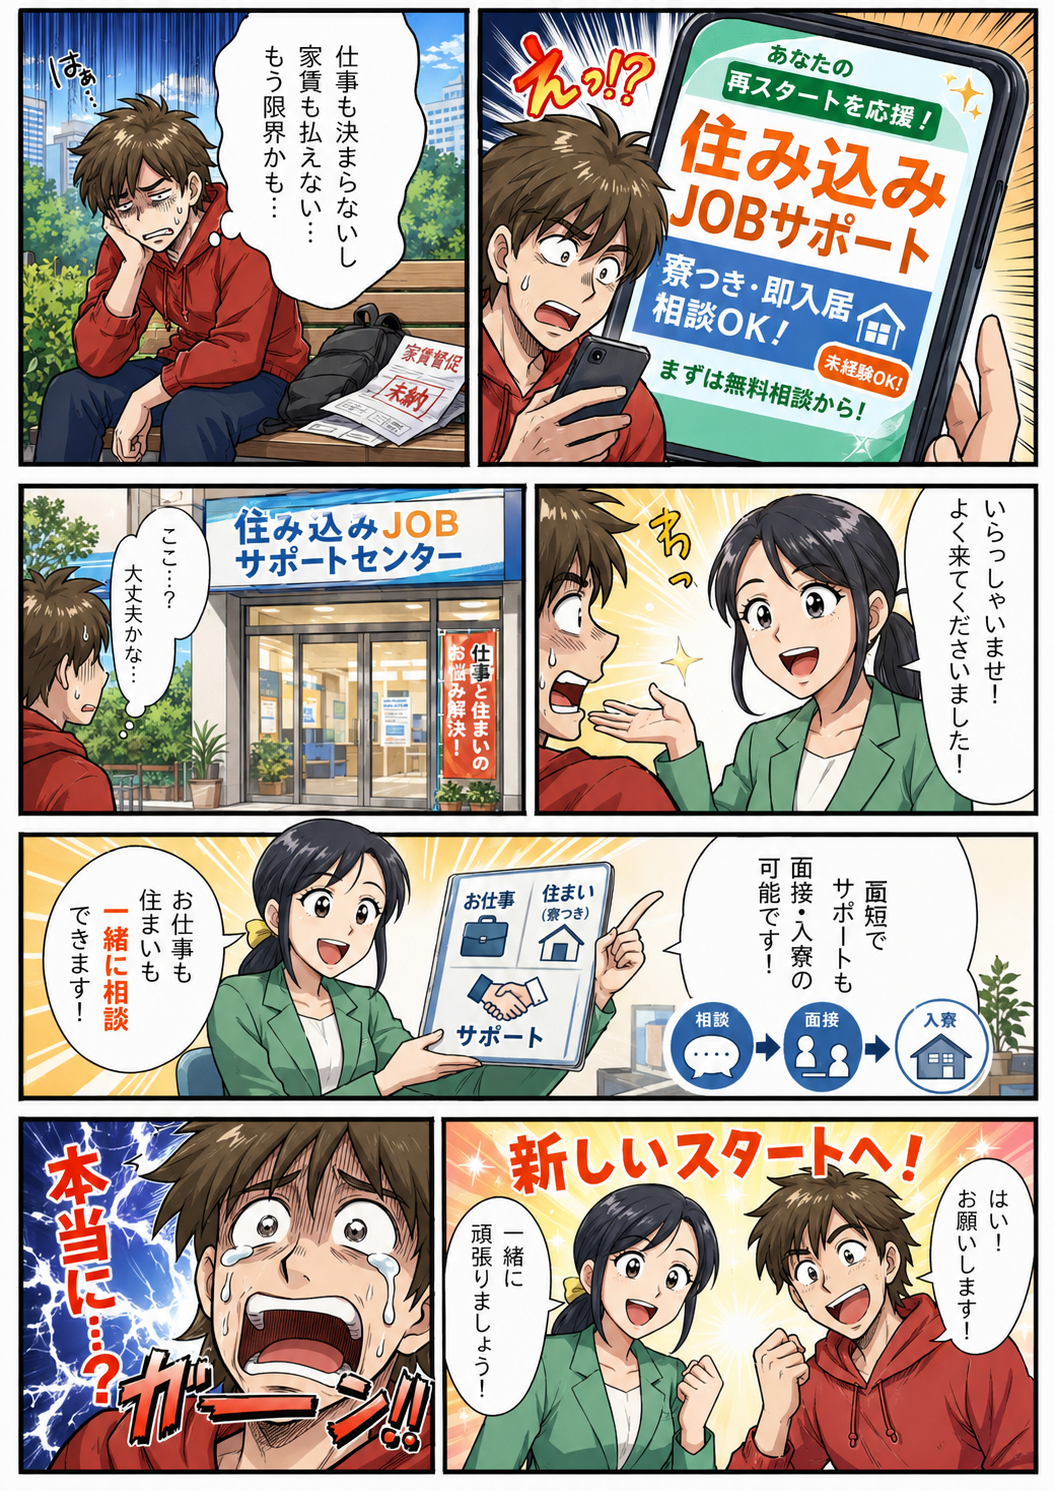
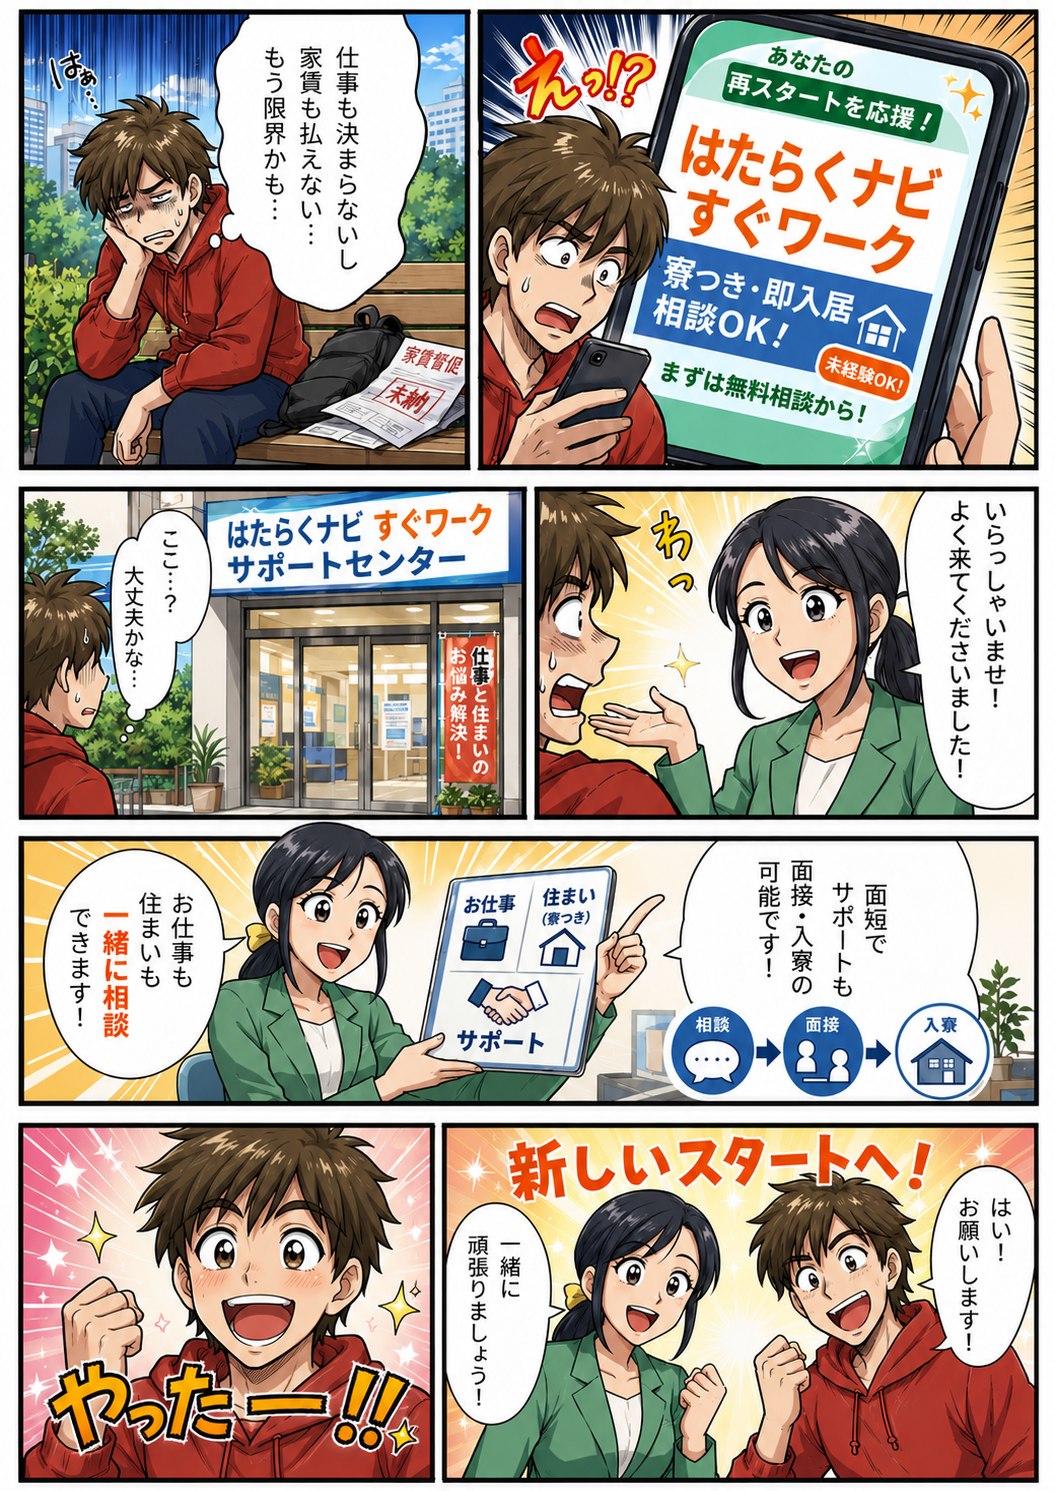
Add files via upload

diff --git a/assets/css/style.css b/assets/css/style.css
@@ -310,3 +310,180 @@ button{cursor:pointer}
   .manga-panel{padding:10px;border-radius:18px}
   .manga-panel img{border-radius:12px}
 }
+
+
+/* =========================================================
+   Final art direction & responsive refinement
+   ========================================================= */
+html,body{max-width:100%;overflow-x:hidden}
+body{font-feature-settings:"palt" 1;letter-spacing:.01em}
+.container{width:min(calc(100% - 48px),1160px)}
+.section{padding-block:104px}
+.section-heading{max-width:760px;margin:0 auto 44px}
+.section-heading>span{letter-spacing:.2em}
+.section-heading h2{font-weight:900;letter-spacing:-.045em}
+.section-heading p{font-size:15px;line-height:1.9}
+
+.site-header{box-shadow:0 1px 0 rgba(13,35,67,.06)}
+.header-inner{min-height:82px}
+.line-button,.outline-button,.submit-button{letter-spacing:.01em}
+
+.hero-layout{min-height:680px}
+.hero-copy-panel{background:linear-gradient(145deg,#075cc7 0%,#064da9 60%,#08377d 100%)}
+.hero-copy-panel::before{opacity:.55}
+.hero-copy-inner{padding-block:78px}
+.hero-kicker{border-radius:3px;box-shadow:0 8px 20px rgba(0,30,82,.16)}
+.hero h1{font-weight:900}
+.hero-photo-panel>img{min-height:680px;object-position:62% center}
+.support-badge{box-shadow:0 18px 42px rgba(0,45,117,.22)}
+.hero-mini-label{border:1px solid rgba(219,230,242,.9);box-shadow:0 16px 36px rgba(0,42,105,.13)}
+
+.support-strip{margin-top:-38px;padding:30px;border-radius:20px;box-shadow:0 18px 44px rgba(0,42,105,.1)}
+.support-mini-card{border-radius:12px;background:#fff}
+.support-mini-card img{height:92px}
+
+.job-card,.benefit-card,.reason-card,.flow-card,.faq-item,.entry-form,.manga-panel{border-radius:16px}
+.job-card{box-shadow:0 12px 30px rgba(0,54,130,.065)}
+.job-image{height:224px}
+.job-image span{border-radius:6px;padding:5px 10px}
+.job-body{padding:24px}
+.job-body p{line-height:1.85}
+.income{border-radius:8px;background:#edf4fc}
+
+.section-manga{padding-top:96px;background:linear-gradient(180deg,#f8fbff 0%,#fff 100%)}
+.manga-panel{max-width:980px;margin-inline:auto;padding:14px;background:#fff;border:1px solid #dfe8f3;box-shadow:0 18px 42px rgba(0,42,105,.08)}
+.manga-panel img{border-radius:10px}
+
+.benefit-card{backdrop-filter:none;background:rgba(255,255,255,.11)}
+.reason-card,.flow-card{box-shadow:0 8px 22px rgba(0,54,130,.05)}
+.entry-form{box-shadow:0 24px 58px rgba(0,0,0,.2)}
+
+@media(max-width:1080px){
+  .container{width:min(calc(100% - 40px),960px)}
+  .hero-layout{grid-template-columns:1fr;min-height:0}
+  .hero-copy-inner{padding:64px 0 50px}
+  .hero-photo-panel{height:auto;aspect-ratio:16/9}
+  .hero-photo-panel>img{min-height:0;height:100%;object-position:64% center}
+  .support-strip{margin-top:-26px}
+}
+
+@media(max-width:760px){
+  :root{--shadow:0 14px 34px rgba(0,54,130,.12)}
+  .container{width:min(calc(100% - 28px),680px)}
+  body{padding-bottom:68px}
+  .section{padding-block:72px}
+  .section-heading{margin-bottom:30px}
+  .section-heading>span{font-size:10px;letter-spacing:.16em}
+  .section-heading h2{font-size:clamp(27px,8vw,34px);line-height:1.35;word-break:keep-all;overflow-wrap:anywhere}
+  .section-heading p{font-size:13px;line-height:1.8}
+
+  .site-header{position:relative}
+  .header-inner{min-height:70px;padding-block:8px}
+  .brand{width:215px;max-width:72vw}
+
+  .hero{overflow:visible}
+  .hero-copy-inner{width:calc(100% - 30px);padding:38px 0 34px}
+  .hero-kicker{font-size:12px;padding:6px 12px;margin-bottom:14px}
+  .hero h1{font-size:clamp(40px,12vw,52px);line-height:1.12}
+  .hero-sub{font-size:14px;line-height:1.75;margin:18px 0 16px}
+  .hero-list{width:100%;margin-bottom:22px}
+  .hero-list li{font-size:14px;line-height:1.55;padding-left:31px}
+  .hero-actions{display:grid;grid-template-columns:1fr;width:100%}
+  .line-button-large,.outline-button{width:100%;min-width:0}
+  .line-button-large{min-height:66px}
+  .line-button-large strong{font-size:20px}
+
+  .hero-photo-panel{aspect-ratio:390/470;min-height:0}
+  .hero-photo-panel>img{width:100%;height:100%;min-height:0;object-fit:cover;object-position:68% center}
+  .hero-photo-panel::after{height:105px}
+  .support-badge{right:12px;bottom:18px;width:126px;height:126px;border-width:3px}
+  .support-badge span{font-size:15px}
+  .support-badge strong{margin-top:12px;font-size:46px}
+  .support-badge small{font-size:18px}
+  .hero-mini-label{min-width:104px;padding:8px 10px;border-radius:11px}
+  .hero-mini-label strong{font-size:14px}
+  .hero-mini-label span{font-size:9px}
+  .hero-mini-label-one{left:12px;top:16px}
+  .hero-mini-label-two{left:12px;bottom:20px}
+
+  .support-strip{margin-top:0;padding:24px 14px 18px;border-radius:0;border-left:0;border-right:0;box-shadow:none}
+  .support-strip-heading{margin-bottom:16px}
+  .support-strip-heading span{font-size:11px}
+  .support-strip-heading strong{font-size:23px}
+  .support-mini-grid{grid-template-columns:repeat(2,minmax(0,1fr));gap:10px}
+  .support-mini-card{min-width:0}
+  .support-mini-card img{height:88px}
+  .support-mini-card div{padding:10px 6px}
+  .support-mini-card strong{font-size:13px;overflow-wrap:anywhere}
+  .support-mini-card span{font-size:9px}
+
+  .section-manga{padding-top:66px}
+  .manga-panel{padding:6px;border-radius:12px}
+  .manga-panel img{width:100%;border-radius:7px}
+
+  .section-line-cta{padding-block:46px}
+  .line-cta{grid-template-columns:1fr;gap:22px;text-align:center}
+  .line-cta h2{font-size:28px;word-break:keep-all}
+  .line-cta p{font-size:13px}
+  .line-button-xl{width:100%;min-width:0;min-height:76px;padding:12px 16px}
+  .line-button-xl strong{font-size:24px}
+
+  .job-grid,.benefit-grid,.reason-grid,.flow-list{grid-template-columns:1fr;gap:14px}
+  .job-card{width:100%;min-width:0}
+  .job-image{height:auto;aspect-ratio:16/10}
+  .job-image img{object-position:center}
+  .job-body{padding:20px}
+  .job-body h3{font-size:19px}
+  .job-body p{font-size:13px;min-height:0}
+  .income{font-size:17px}
+  .conditions-note{padding-inline:4px;text-align:left;line-height:1.7}
+
+  .benefit-card{min-height:0;padding:20px}
+  .reason-card,.flow-card{padding:22px 18px}
+  .flow-card:not(:last-child)::after{display:none}
+
+  .faq-item summary{padding:18px 52px 18px 16px;font-size:14px;line-height:1.65}
+  .faq-item summary::after{right:14px}
+  .faq-item p{padding:0 16px 18px;font-size:13px}
+
+  .entry-layout{grid-template-columns:1fr;gap:28px}
+  .entry-copy{position:relative;top:auto;text-align:center}
+  .entry-copy h2{font-size:32px;word-break:keep-all}
+  .entry-copy>p{font-size:13px}
+  .entry-support,.entry-phone{text-align:left}
+  .entry-support strong{font-size:36px}
+  .entry-phone strong{font-size:25px}
+  .entry-form{width:100%;min-width:0;padding:22px 16px;border-radius:16px}
+  .form-heading{align-items:flex-start;flex-wrap:wrap}
+  .form-heading h3{font-size:21px}
+  .form-row input[type="text"],.form-row input[type="tel"],.form-row select{font-size:16px}
+  .checkbox-group label{max-width:100%}
+  .checkbox-group span{white-space:normal}
+
+  .company-list{border-radius:12px}
+  .company-list div{grid-template-columns:1fr}
+  .company-list dt{padding:14px 16px 4px}
+  .company-list dd{padding:4px 16px 14px;overflow-wrap:anywhere}
+
+  .footer-inner{grid-template-columns:1fr;gap:20px}
+  .footer-inner nav{justify-content:flex-start;gap:12px 16px}
+  .footer-inner img{max-width:230px}
+
+  .line-popup{right:10px;left:10px;bottom:78px;width:auto;max-height:calc(100vh - 100px);overflow:auto}
+}
+
+@media(max-width:390px){
+  .container{width:min(calc(100% - 22px),680px)}
+  .hero-copy-inner{width:calc(100% - 24px)}
+  .hero h1{font-size:40px}
+  .hero-photo-panel{aspect-ratio:360/455}
+  .hero-photo-panel>img{object-position:69% center}
+  .support-badge{width:112px;height:112px;right:8px;bottom:14px}
+  .support-badge span{font-size:13px}
+  .support-badge strong{font-size:40px;margin-top:10px}
+  .support-badge small{font-size:16px}
+  .hero-mini-label-two{bottom:14px}
+  .section-heading h2{font-size:27px}
+  .line-cta h2{font-size:25px}
+  .line-button-xl strong{font-size:22px}
+}

diff --git a/index.html b/index.html
@@ -102,7 +102,7 @@
       <div class="container">
         <div class="section-heading reveal">
           <span>MANGA STORY</span>
-          <h2>マンガでわかる仕事と住まいの相談サポート</h2>
+          <h2>仕事と住まいの相談サポート</h2>
           <p>「仕事が決まらない」「住まいも不安」という方でも、相談から入寮・勤務開始までしっかりサポートします。</p>
         </div>
         <div class="manga-panel reveal">
